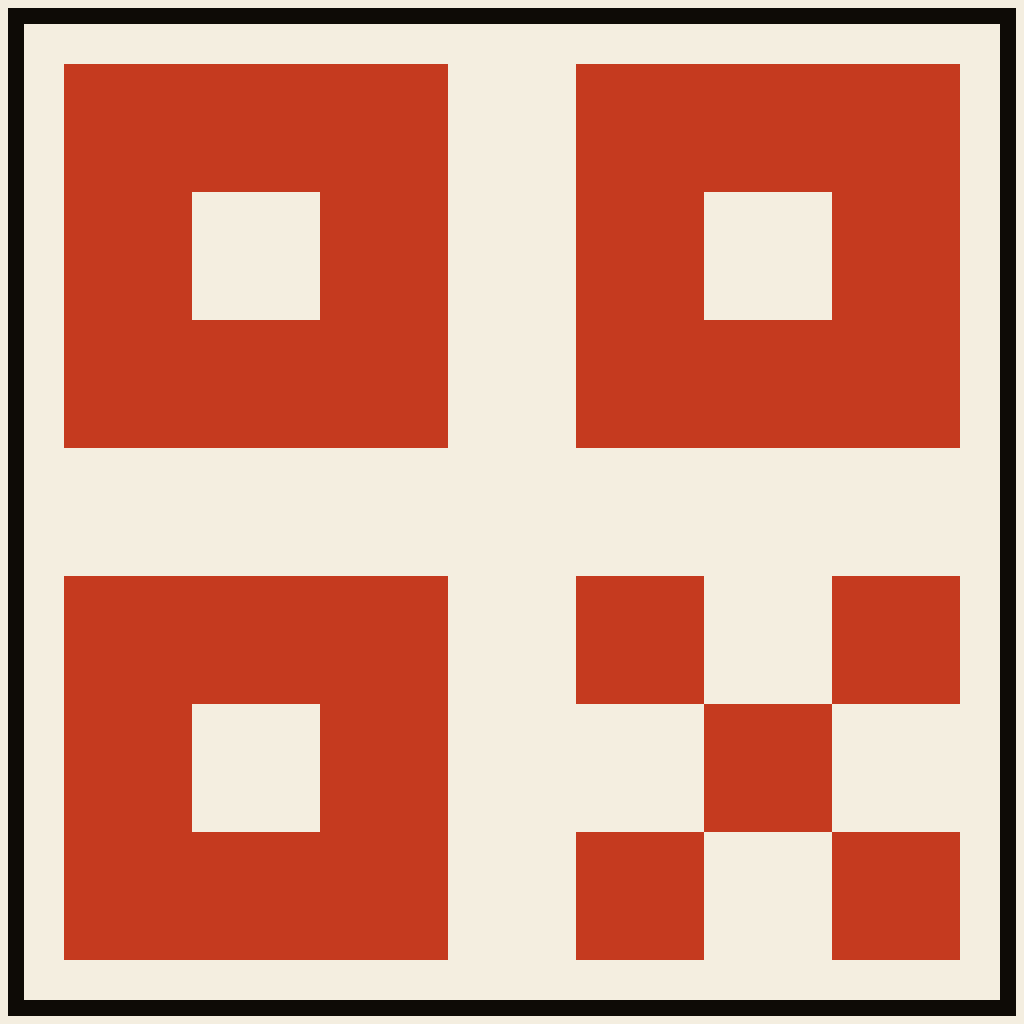
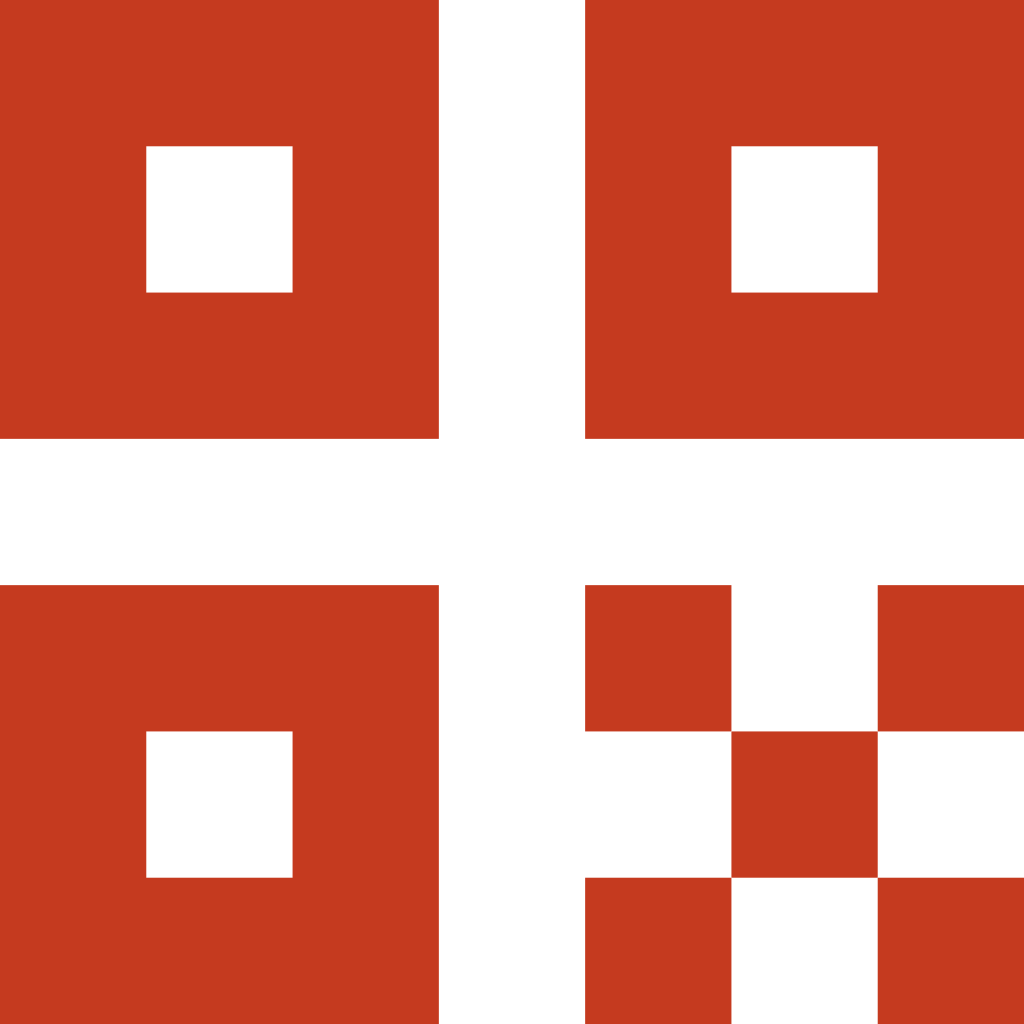
fix(brand): rewrite kit marks to the canonical bare silhouette
The mark shipped in static/brand/ was the favicon-form (cream paper
rectangle + ink frame + accent marks). The canonical brand mark —
defined in src/routes/+layout.svelte's `.brand-mark` and used in
every page masthead — is the BARE 7 × 7 grid silhouette: three
finder-pattern eyes (TL / TR / BL) + a 5-cell quincunx in the BR
quadrant, single color, no frame, no background. The favicon's
paper + frame are favicon-specific styling for browser-tab
opacity, not part of the mark identity.

User screenshot pair surfaced the discrepancy: the live masthead
mark looks nothing like the framed cream-paper artifact I shipped
in the kit.

Rewrote all 5 mark variants and both lockups using the canonical
7 × 7 shape from layout.svelte (paths for the three finder eyes,
5 rects for the BR cells). Single-color fills:

  mark.svg              accent red    #c53a1f
  mark-dark.svg         accent warm   #e0492c
  mark-mono-ink.svg     ink           #0e0b06
  mark-mono-cream.svg   cream         #f9eedb
  mark-mono-accent.svg  accent red    #c53a1f  (alias of mark.svg)

Lockups use the bare mark scaled to 96 px and the wordmark in
JetBrains Mono Bold. lockup-light has ink wordmark + accent slash;
lockup-dark has cream wordmark + accent slash. Both transparent
ambient ground.

PNG rasters at 256 / 512 / 1024 / 2048 regenerated from the new
mark.svg via `npm run build:images`. The PNGs now have transparent
backgrounds (was opaque cream).
[…]

diff --git a/static/brand/USAGE.md b/static/brand/USAGE.md
@@ -27,21 +27,35 @@ ship.
 
 ---
 
+## The canonical mark
+
+The kemek-qr mark is a **bare 7 × 7 grid** of finder-pattern eyes (TL,
+TR, BL) plus a 5-cell quincunx in the BR quadrant. **One color, no
+background, no frame, no padding** — same shape definition as
+`src/routes/+layout.svelte`'s `.brand-mark`. The mark inherits its
+surface from whatever it sits on; brand identity is in the *shape*,
+not in a paper rectangle around it.
+
+The favicon (shipped at `static/favicon.svg`) is a different
+artifact — it carries a cream paper rectangle + ink frame because
+favicons need an opaque surface for browser tabs. That's
+favicon-specific styling, not part of the mark.
+
 ## Files in this folder
 
 | File | Use |
 |---|---|
-| `mark.svg` | Primary mark. Cream paper · ink frame · accent-red marks. |
-| `mark-dark.svg` | Dark-mode variant. Graphite paper · cream frame · accent-warm marks. |
-| `mark-mono-ink.svg` | Monochrome ink on transparent. For light surfaces where color isn't appropriate. |
-| `mark-mono-cream.svg` | Monochrome cream on transparent. For dark surfaces. |
-| `mark-mono-accent.svg` | Monochrome accent-red on transparent. For neutral surfaces. |
-| `lockup-light.svg` | Horizontal lockup — mark + wordmark, for light surfaces. |
-| `lockup-dark.svg` | Horizontal lockup — mark + wordmark, for dark surfaces. |
-| `mark-256.png` | Mark rasterized at 256 × 256. |
-| `mark-512.png` | Mark rasterized at 512 × 512. |
-| `mark-1024.png` | Mark rasterized at 1024 × 1024. |
-| `mark-2048.png` | Mark rasterized at 2048 × 2048. Use for print. |
+| `mark.svg` | Primary mark. Accent red (`#c53a1f`) on transparent. |
+| `mark-dark.svg` | Dark-mode variant. Accent warm (`#e0492c`) on transparent — slightly brighter for dark surfaces. |
+| `mark-mono-ink.svg` | Monochrome ink (`#0e0b06`) on transparent. For light surfaces where color isn't appropriate. |
+| `mark-mono-cream.svg` | Monochrome cream (`#f9eedb`) on transparent. For dark surfaces where color isn't appropriate. |
+| `mark-mono-accent.svg` | Accent red on transparent. Same as `mark.svg`; named alias for clarity at consumption sites. |
+| `lockup-light.svg` | Horizontal lockup — accent mark + ink wordmark + accent slash, for light surfaces. |
+| `lockup-dark.svg` | Horizontal lockup — accent mark + cream wordmark + accent slash, for dark surfaces. |
+| `mark-256.png` | Mark rasterized at 256 × 256, transparent ground. |
+| `mark-512.png` | Mark rasterized at 512 × 512, transparent ground. |
+| `mark-1024.png` | Mark rasterized at 1024 × 1024, transparent ground. |
+| `mark-2048.png` | Mark rasterized at 2048 × 2048, transparent ground. Use for print. |
 
 PNG rasters are generated from the SVG masters via
 `npm run build:images`. Don't edit the PNGs by hand; edit the SVG
@@ -100,13 +114,13 @@ visual hinge between the umbrella brand (`kemek`) and the product
 
 ## Clear space
 
-Minimum clear space around the mark = the height of one finder eye
-(8 px in the 64 × 64 viewBox grid, i.e. 12.5% of the mark width).
+Minimum clear space around the mark = the width of one cell in the
+7 × 7 grid (i.e. ~ 14% of the mark width). Treat that perimeter as
+inviolable — no other type or shape inside it.
 
-Don't crop into the mark's outer 1 px frame stroke — it's part of
-the mark, not decoration around it. The frame is intentional: it
-echoes the QR code's quiet zone in a way the rest of the brand voice
-reads as drafting / engineering specimen.
+The mark itself has no frame or quiet-zone border — that's
+intentional. The 5-cell quincunx in the BR quadrant IS the quiet
+zone in spirit; the silhouette is the mark.
 
 ---
 
@@ -128,6 +142,9 @@ mark (not currently shipped — file an issue if you need it).
 
 - **Don't recolor the mark with custom hex values.** Use one of the
   pre-built variants. The palette is locked.
+- **Don't add a frame or background box around the mark.** The mark
+  is the silhouette of the 7 × 7 grid — the surface around it is
+  whatever it sits on, not part of the mark.
 - **Don't rotate the mark.** It's a QR-shaped mark; rotation breaks
   the visual "this is QR" cue.
 - **Don't add drop shadows, glows, or bevels.** Brand voice is flat
